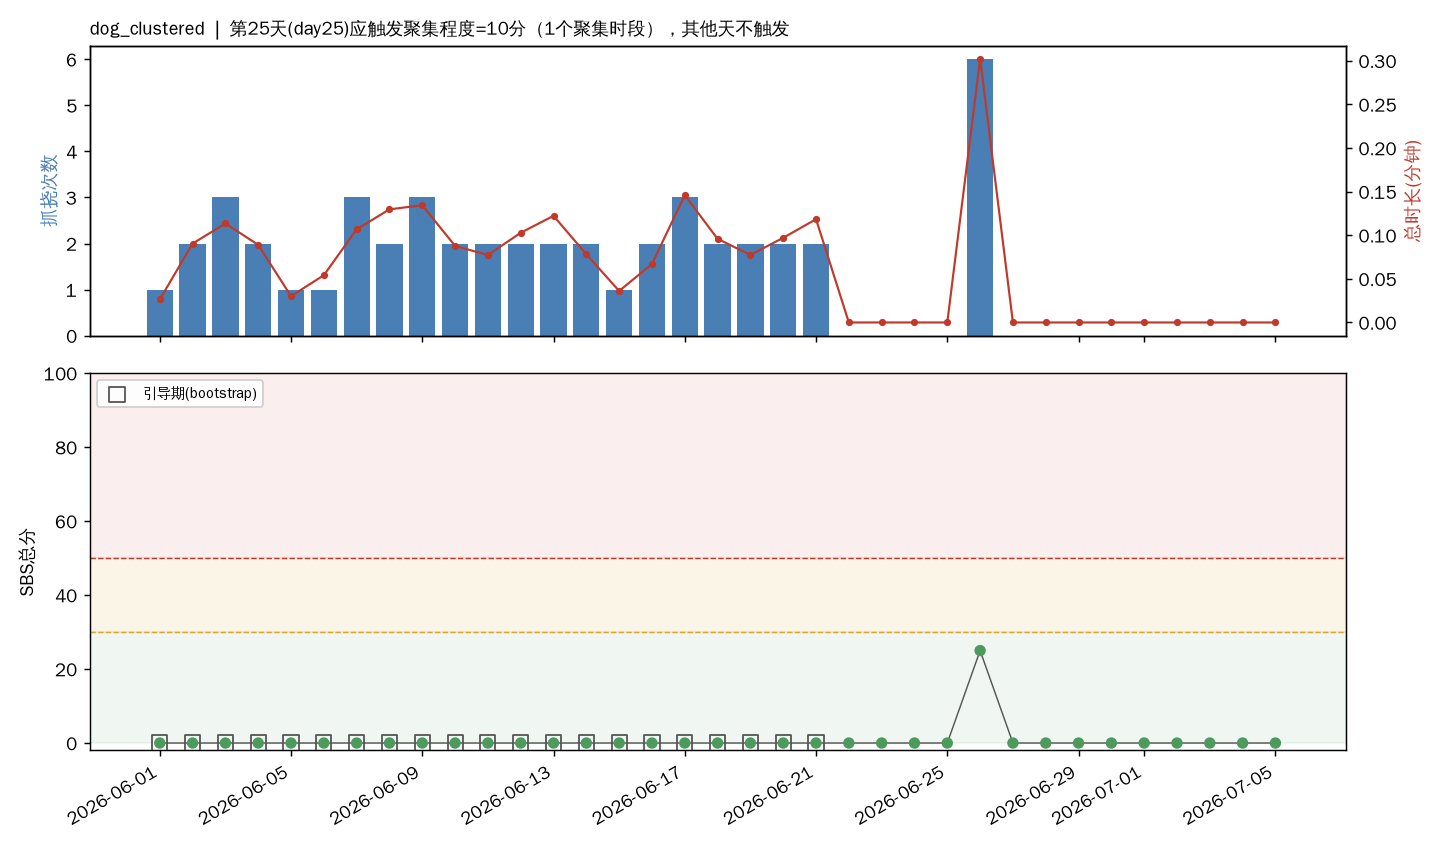
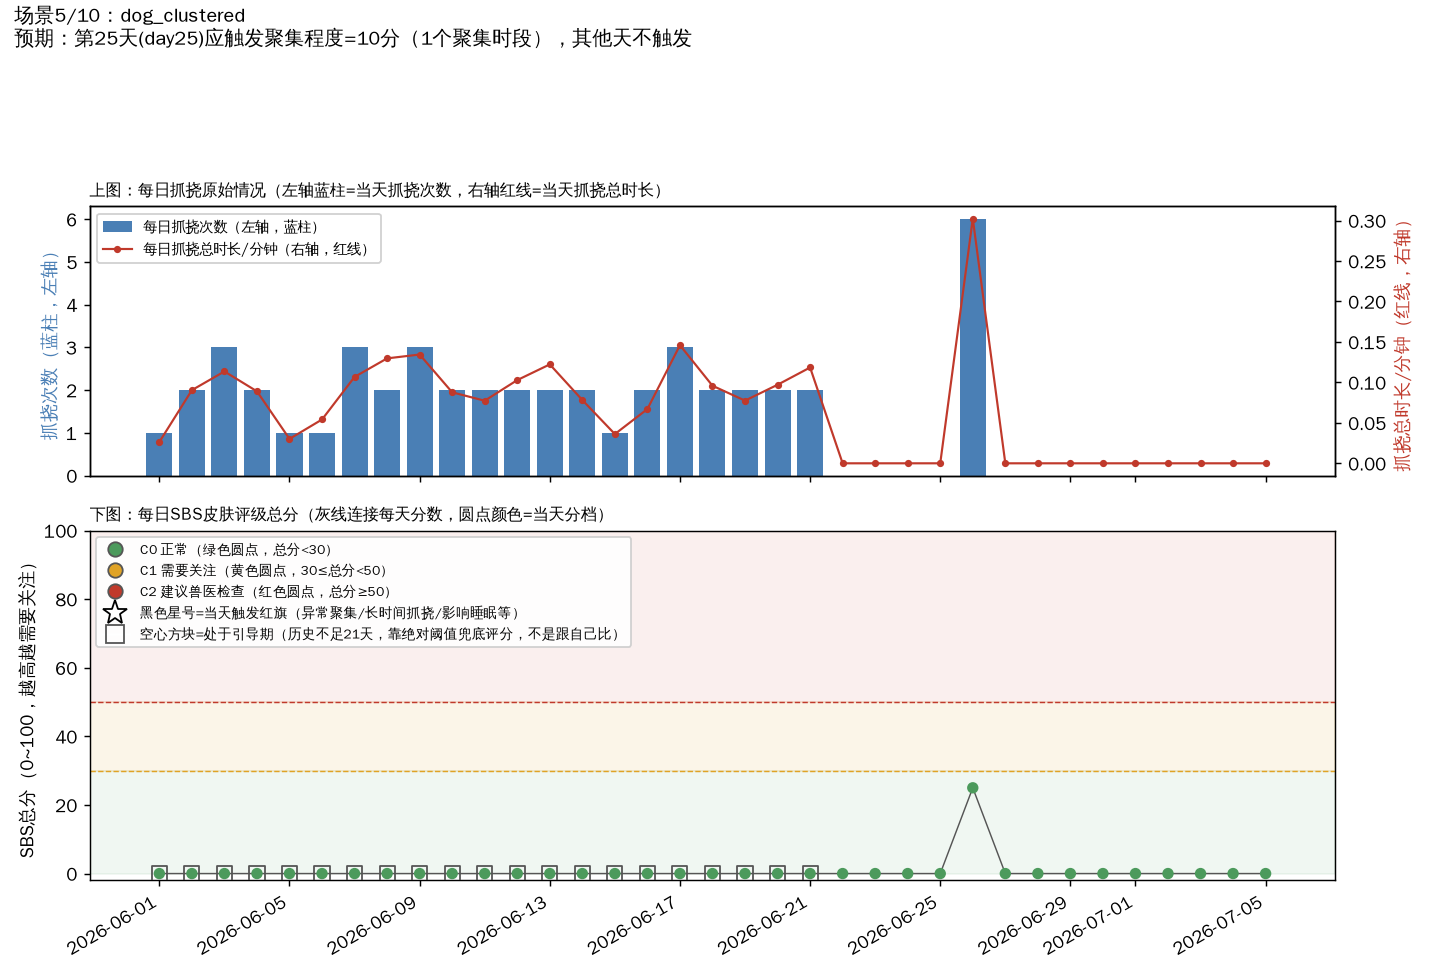
docs: 皮肤评级场景画廊加编号+完整图例说明
之前图上只有蓝柱/红点/彩色圆点，没有任何图例，不知道对应什么含义；
场景标题也没编号，不知道一共几个场景。现在每张图自带完整图例
（次数/时长坐标轴标注、C0/C1/C2颜色对应关系、红旗/引导期标记含义），
标题加"场景N/总数"编号，md文档开头加名词解释段落（SBS/C0-C2/红旗/
引导期分别是什么意思），不用回头查文字说明也能看懂单张图。

diff --git a/skin_health/code/plot_scenario_gallery.py b/skin_health/code/plot_scenario_gallery.py
@@ -29,6 +29,9 @@ for cand in ["WenQuanYi Zen Hei", "Noto Sans CJK SC", "Noto Sans CJK JP", "SimHe
         continue
 plt.rcParams["axes.unicode_minus"] = False
 
+from matplotlib.lines import Line2D
+from matplotlib.patches import Patch
+
 from gen_synthetic_scratch_scenarios import SCENARIOS
 from scratch_burden import daily_features, run_pipeline
 
@@ -42,20 +45,23 @@ os.makedirs(ASSET_DIR, exist_ok=True)
 _TIER_COLOR = {"C0": "#4c9a5c", "C1": "#e0a326", "C2": "#c0392b", "insufficient_data": "#9aa0a6"}
 
 
-def plot_one(pet_id, daily_df, result_df, expect):
+def plot_one(idx, pet_id, daily_df, result_df, expect):
     """上图：每日抓挠次数（柱状）+ 总时长（次坐标折线）；下图：SBS总分随天变化，
-    C0/C1/C2三档背景色区分，红旗天用星号标出。"""
-    fig, (ax1, ax2) = plt.subplots(2, 1, figsize=(11, 6.5), sharex=True,
+    C0/C1/C2三档背景色区分，红旗天用星号标出。每张图自带完整图例，不用对照文字说明才能看懂。"""
+    fig, (ax1, ax2) = plt.subplots(2, 1, figsize=(11, 7.5), sharex=True,
                                     gridspec_kw={"height_ratios": [1, 1.3]})
 
     d = daily_df.sort_values("date")
-    ax1.bar(d["date"], d["event_count"], color="#4a7fb5", width=0.8, label="抓挠次数")
+    bar = ax1.bar(d["date"], d["event_count"], color="#4a7fb5", width=0.8)
     ax1b = ax1.twinx()
-    ax1b.plot(d["date"], d["total_duration_sec"] / 60.0, color="#c0392b",
-              marker="o", markersize=3, linewidth=1.2, label="总时长(分钟)")
-    ax1.set_ylabel("抓挠次数", color="#4a7fb5")
-    ax1b.set_ylabel("总时长(分钟)", color="#c0392b")
-    ax1.set_title(f"{pet_id}  |  {expect}", fontsize=10, loc="left", wrap=True)
+    line, = ax1b.plot(d["date"], d["total_duration_sec"] / 60.0, color="#c0392b",
+                       marker="o", markersize=3, linewidth=1.2)
+    ax1.set_ylabel("抓挠次数（蓝柱，左轴）", color="#4a7fb5")
+    ax1b.set_ylabel("抓挠总时长/分钟（红线，右轴）", color="#c0392b")
+    ax1.set_title("上图：每日抓挠原始情况（左轴蓝柱=当天抓挠次数，右轴红线=当天抓挠总时长）",
+                  fontsize=9, loc="left")
+    ax1.legend([bar, line], ["每日抓挠次数（左轴，蓝柱）", "每日抓挠总时长/分钟（右轴，红线）"],
+               loc="upper left", fontsize=8, framealpha=0.9)
 
     r = result_df.sort_values("date")
     r_scored = r[r["tier"] != "insufficient_data"]
@@ -70,18 +76,32 @@ def plot_one(pet_id, daily_df, result_df, expect):
     flagged = r_scored[r_scored["red_flags"].apply(lambda x: bool(x))]
     if len(flagged):
         ax2.scatter(flagged["date"], flagged["total"], marker="*", s=180,
-                    facecolors="none", edgecolors="black", linewidths=1.2,
-                    zorder=4, label="触发红旗")
+                    facecolors="none", edgecolors="black", linewidths=1.2, zorder=4)
     bootstrap = r_scored[r_scored["bootstrap_mode"]]
     if len(bootstrap):
         ax2.scatter(bootstrap["date"], bootstrap["total"], marker="s", s=70,
-                    facecolors="none", edgecolors="#555", linewidths=1.0,
-                    zorder=4, label="引导期(bootstrap)")
-    ax2.set_ylabel("SBS总分")
+                    facecolors="none", edgecolors="#555", linewidths=1.0, zorder=4)
+    ax2.set_ylabel("SBS总分（0~100，越高越需要关注）")
     ax2.set_ylim(-2, 100)
-    ax2.legend(loc="upper left", fontsize=8, framealpha=0.9)
+    ax2.set_title("下图：每日SBS皮肤评级总分（灰线连接每天分数，圆点颜色=当天分档）",
+                  fontsize=9, loc="left")
+    legend_handles = [
+        Line2D([0], [0], marker="o", color="#555", markerfacecolor=_TIER_COLOR["C0"],
+               markersize=8, linewidth=0, label="C0 正常（绿色圆点，总分<30）"),
+        Line2D([0], [0], marker="o", color="#555", markerfacecolor=_TIER_COLOR["C1"],
+               markersize=8, linewidth=0, label="C1 需要关注（黄色圆点，30≤总分<50）"),
+        Line2D([0], [0], marker="o", color="#555", markerfacecolor=_TIER_COLOR["C2"],
+               markersize=8, linewidth=0, label="C2 建议兽医检查（红色圆点，总分≥50）"),
+        Line2D([0], [0], marker="*", color="w", markeredgecolor="black", markerfacecolor="none",
+               markersize=14, label="黑色星号=当天触发红旗（异常聚集/长时间抓挠/影响睡眠等）"),
+        Line2D([0], [0], marker="s", color="w", markeredgecolor="#555", markerfacecolor="none",
+               markersize=10, label="空心方块=处于引导期（历史不足21天，靠绝对阈值兜底评分，不是跟自己比）"),
+    ]
+    ax2.legend(handles=legend_handles, loc="upper left", fontsize=7.5, framealpha=0.9)
+    fig.suptitle(f"场景{idx}/{len(SCENARIOS)}：{pet_id}\n预期：{expect}",
+                 fontsize=11, x=0.01, ha="left", y=0.995)
     fig.autofmt_xdate(rotation=30)
-    fig.tight_layout()
+    fig.tight_layout(rect=(0, 0, 1, 0.90))
 
     out_path = os.path.join(ASSET_DIR, f"scenario_{pet_id}.png")
     fig.savefig(out_path, dpi=130)
@@ -100,20 +120,37 @@ def summarize_key_days(result_df):
 
 
 def main():
+    n = len(SCENARIOS)
     doc_lines = [
         "# 皮肤评级合成场景画廊",
         "",
-        "> 每个场景对应 `gen_synthetic_scratch_scenarios.py` 里的一个 `scenario_*` 函数，"
-        "用来验证 SBS 打分机制（不是抓挠事件识别准确率）。这份文档配图+关键天数表格，"
-        "不用跑代码就能直观看每个场景的抓挠情况和评分结果；完整逐天数据在对应的CSV里。",
+        f"> 一共 {n} 个合成场景，每个对应 `gen_synthetic_scratch_scenarios.py` 里的一个 "
+        "`scenario_*` 函数，目的是验证 **SBS 打分机制本身**（不是抓挠事件识别准确率）——"
+        "也就是给定一组已知的抓挠事件，SBS引擎算出来的评级是否符合预期，用来在改动打分公式后"
+        "快速回归测试。下面每个场景的标题都带编号（场景1/10、场景2/10……），跟目录一一对应。",
         "",
-        "图例：上图蓝柱=每日抓挠次数，红线=每日总时长(分钟)；下图散点=SBS总分，"
-        "背景绿/黄/红对应C0/C1/C2分档，黑色星号=当天触发红旗，空心方块=处于引导期"
-        "(bootstrap_mode，历史不足21天，靠绝对阈值兜底评分)。",
+        "## 名词解释（看不懂图例的先看这里）",
+        "",
+        "- **SBS（Scratch Burden Score，抓挠负担分）**：算法给每只狗每天算出来的0~100分，"
+        "分数越高代表当天的抓挠行为越偏离正常，由四个子项（变化幅度/聚集程度/持续程度/"
+        "正常行为中断）加总得到，达到不同门槛对应下面的C0/C1/C2三档。",
+        "- **C0 正常 / C1 需要关注 / C2 建议兽医检查**：SBS总分 <30 是C0，30~50是C1，≥50是C2，"
+        "对应下图绿/黄/红三种背景色。",
+        "- **红旗（red flag）**：不管总分多少，只要触发了预定义的严重信号（比如单次连续抓挠"
+        "超过1分钟、1小时内聚集抓挠≥3次、影响夜间睡眠等），就在图上标黑色星号，代表这天"
+        "有值得直接关注的具体行为，不是单纯靠算分数判断。",
+        "- **引导期（bootstrap_mode）**：这只狗历史数据还不满21天，没法算出\"跟自己比\"的"
+        "个人基线，这期间改用文献（Whistle FIT）给的固定秒数阈值兜底评分，图上标空心方块，"
+        "跟基线建立后的正常评分是两套逻辑，不能直接比较分数高低。",
+        "",
+        "每张图分两部分：**上图**是当天实际发生的抓挠情况（原始数据，蓝柱=次数，红线=总时长），"
+        "**下图**是算法根据上图数据算出来的SBS评分结果（total/tier），两张图上下对齐、"
+        "同一天可以直接对照看\"当天发生了什么 → 算法打了多少分\"。每张图内部都带完整图例，"
+        "不需要再回来看这段文字。",
         "",
     ]
 
-    for fn in SCENARIOS:
+    for idx, fn in enumerate(SCENARIOS, start=1):
         pet_id, events, wear, expect = fn()
         events_df = pd.DataFrame(events)
         wear_df = pd.DataFrame(wear)
@@ -125,7 +162,7 @@ def main():
         events_df.to_csv(events_csv, index=False)
         result_df.to_csv(daily_csv, index=False)
 
-        img_rel = plot_one(pet_id, daily_df, result_df, expect)
+        img_rel = plot_one(idx, pet_id, daily_df, result_df, expect)
         events_csv_rel = os.path.relpath(events_csv, os.path.dirname(DOC_PATH))
         daily_csv_rel = os.path.relpath(daily_csv, os.path.dirname(DOC_PATH))
 
@@ -143,7 +180,7 @@ def main():
             )
 
         doc_lines += [
-            f"## {pet_id}",
+            f"## 场景{idx}/{n}：{pet_id}",
             "",
             f"**预期**：{expect}",
             "",

diff --git a/skin_health/docs/scenario_gallery.md b/skin_health/docs/scenario_gallery.md
@@ -1,10 +1,17 @@
 # 皮肤评级合成场景画廊
 
-> 每个场景对应 `gen_synthetic_scratch_scenarios.py` 里的一个 `scenario_*` 函数，用来验证 SBS 打分机制（不是抓挠事件识别准确率）。这份文档配图+关键天数表格，不用跑代码就能直观看每个场景的抓挠情况和评分结果；完整逐天数据在对应的CSV里。
+> 一共 10 个合成场景，每个对应 `gen_synthetic_scratch_scenarios.py` 里的一个 `scenario_*` 函数，目的是验证 **SBS 打分机制本身**（不是抓挠事件识别准确率）——也就是给定一组已知的抓挠事件，SBS引擎算出来的评级是否符合预期，用来在改动打分公式后快速回归测试。下面每个场景的标题都带编号（场景1/10、场景2/10……），跟目录一一对应。
 
-图例：上图蓝柱=每日抓挠次数，红线=每日总时长(分钟)；下图散点=SBS总分，背景绿/黄/红对应C0/C1/C2分档，黑色星号=当天触发红旗，空心方块=处于引导期(bootstrap_mode，历史不足21天，靠绝对阈值兜底评分)。
+## 名词解释（看不懂图例的先看这里）
 
-## dog_stable_low
+- **SBS（Scratch Burden Score，抓挠负担分）**：算法给每只狗每天算出来的0~100分，分数越高代表当天的抓挠行为越偏离正常，由四个子项（变化幅度/聚集程度/持续程度/正常行为中断）加总得到，达到不同门槛对应下面的C0/C1/C2三档。
+- **C0 正常 / C1 需要关注 / C2 建议兽医检查**：SBS总分 <30 是C0，30~50是C1，≥50是C2，对应下图绿/黄/红三种背景色。
+- **红旗（red flag）**：不管总分多少，只要触发了预定义的严重信号（比如单次连续抓挠超过1分钟、1小时内聚集抓挠≥3次、影响夜间睡眠等），就在图上标黑色星号，代表这天有值得直接关注的具体行为，不是单纯靠算分数判断。
+- **引导期（bootstrap_mode）**：这只狗历史数据还不满21天，没法算出"跟自己比"的个人基线，这期间改用文献（Whistle FIT）给的固定秒数阈值兜底评分，图上标空心方块，跟基线建立后的正常评分是两套逻辑，不能直接比较分数高低。
+
+每张图分两部分：**上图**是当天实际发生的抓挠情况（原始数据，蓝柱=次数，红线=总时长），**下图**是算法根据上图数据算出来的SBS评分结果（total/tier），两张图上下对齐、同一天可以直接对照看"当天发生了什么 → 算法打了多少分"。每张图内部都带完整图例，不需要再回来看这段文字。
+
+## 场景1/10：dog_stable_low
 
 **预期**：全程应保持 C0（低基线、无明显偏离）
 
@@ -27,7 +34,7 @@
 
 ---
 
-## dog_sudden_spike
+## 场景2/10：dog_sudden_spike
 
 **预期**：后14天从每天3次开始，应在基线建立后逐步触发 C1/C2（验证低基线狗的相对变化是否能被捕捉到）
 
@@ -50,7 +57,7 @@
 
 ---
 
-## dog_gradual_worsening
+## 场景3/10：dog_gradual_worsening
 
 **预期**：应观察到变化幅度分逐日上升、持续程度分在偏离持续>=3天后达到20
 
@@ -73,7 +80,7 @@
 
 ---
 
-## dog_high_baseline_modest
+## 场景4/10：dog_high_baseline_modest
 
 **预期**：PM文档示例五（30→35，倍数1.17）：应判定为无明显变化，变化幅度分=0
 
@@ -96,7 +103,7 @@
 
 ---
 
-## dog_clustered
+## 场景5/10：dog_clustered
 
 **预期**：第25天(day25)应触发聚集程度=10分（1个聚集时段），其他天不触发
 
@@ -119,7 +126,7 @@
 
 ---
 
-## dog_night_disruption
+## 场景6/10：dog_night_disruption
 
 **预期**：第28天应识别出2次睡眠中断（23:00/23:20间隔20min不合并，02:00算第2或第3次），触发中断分>=20
 
@@ -142,7 +149,7 @@
 
 ---
 
-## dog_long_scratch
+## 场景7/10：dog_long_scratch
 
 **预期**：第30天应触发红旗 interrupt_or_long_scratch，正常行为影响分=30
 
@@ -165,7 +172,7 @@
 
 ---
 
-## dog_missing_wear
+## 场景8/10：dog_missing_wear
 
 **预期**：缺失日应标记 insufficient，不应计入基线，也不应被当成'0次抓挠=正常'
 
@@ -188,7 +195,7 @@
 
 ---
 
-## dog_cold_start
+## 场景9/10：dog_cold_start
 
 **预期**：前21天历史不足，bootstrap_mode=True；轻度抓挠远低于120秒/天，应保持 C0，不强行凑基线打分
 
@@ -211,7 +218,7 @@
 
 ---
 
-## dog_severe_bootstrap
+## 场景10/10：dog_severe_bootstrap
 
 **预期**：基线还没建立（bootstrap_mode=True），但当日总时长远超300秒/天，应从第1天起就靠绝对阈值兜底触发高分/C2，而不是等21天基线建立后才发现
 
